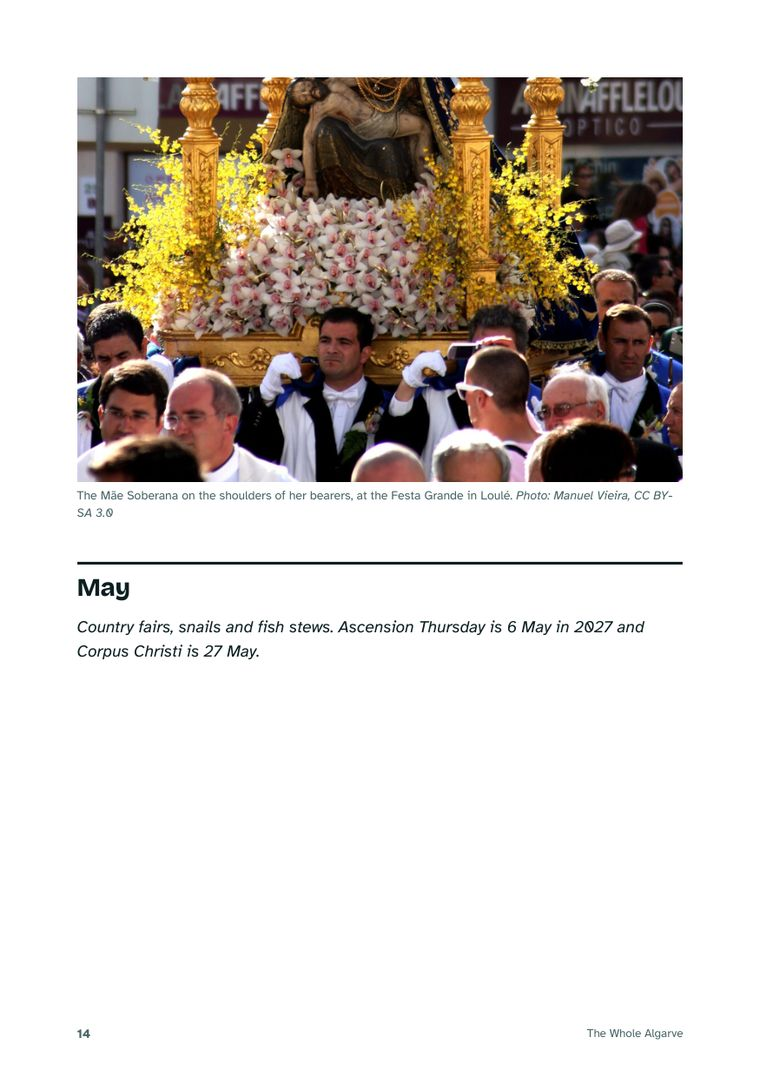
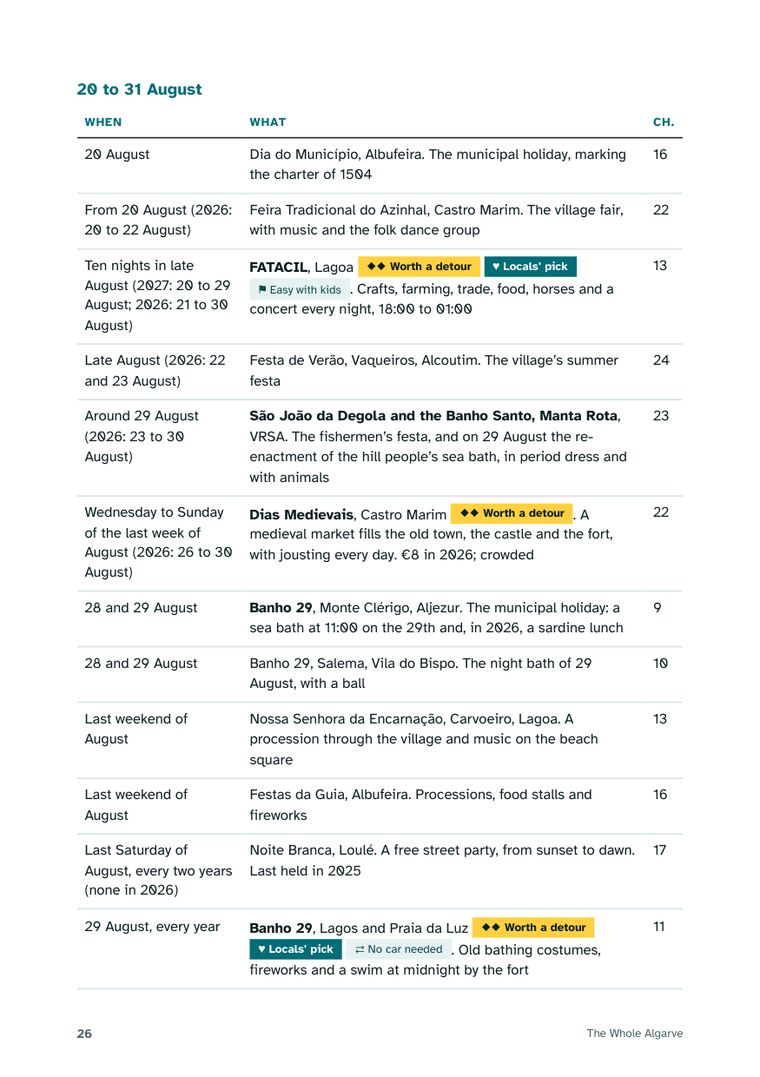
Guide sales page: fuller calendar page in the flipbook

diff --git a/src/guide/sales/content.ts b/src/guide/sales/content.ts
@@ -22,7 +22,7 @@ export const PAGES = [
     { src: '/guide/page-portimao-opener.jpg', en: 'A municipality chapter opens', pt: 'Abertura de um capítulo de concelho' },
     { src: '/guide/page-portimao-map.jpg', en: 'A map drawn for the guide', pt: 'Um mapa desenhado para o guia' },
     { src: '/guide/page-portimao-beaches.jpg', en: 'Beaches, each with a verdict', pt: 'Praias, cada uma com veredicto' },
-    { src: '/guide/page-calendar.jpg', en: 'The calendar, month by month', pt: 'O calendário, mês a mês' },
+    { src: '/guide/page-calendar.jpg', en: 'The calendar: late August', pt: 'O calendário: fim de Agosto' },
     { src: '/guide/page-region-map.jpg', en: 'The region in twenty minutes', pt: 'A região em vinte minutos' },
     { src: '/guide/page-paperwork-opener.jpg', en: 'Living here: paperwork', pt: 'Viver cá: a papelada' },
     { src: '/guide/page-paperwork-chart.jpg', en: 'Who needs which permit', pt: 'Quem precisa de que autorização' },
